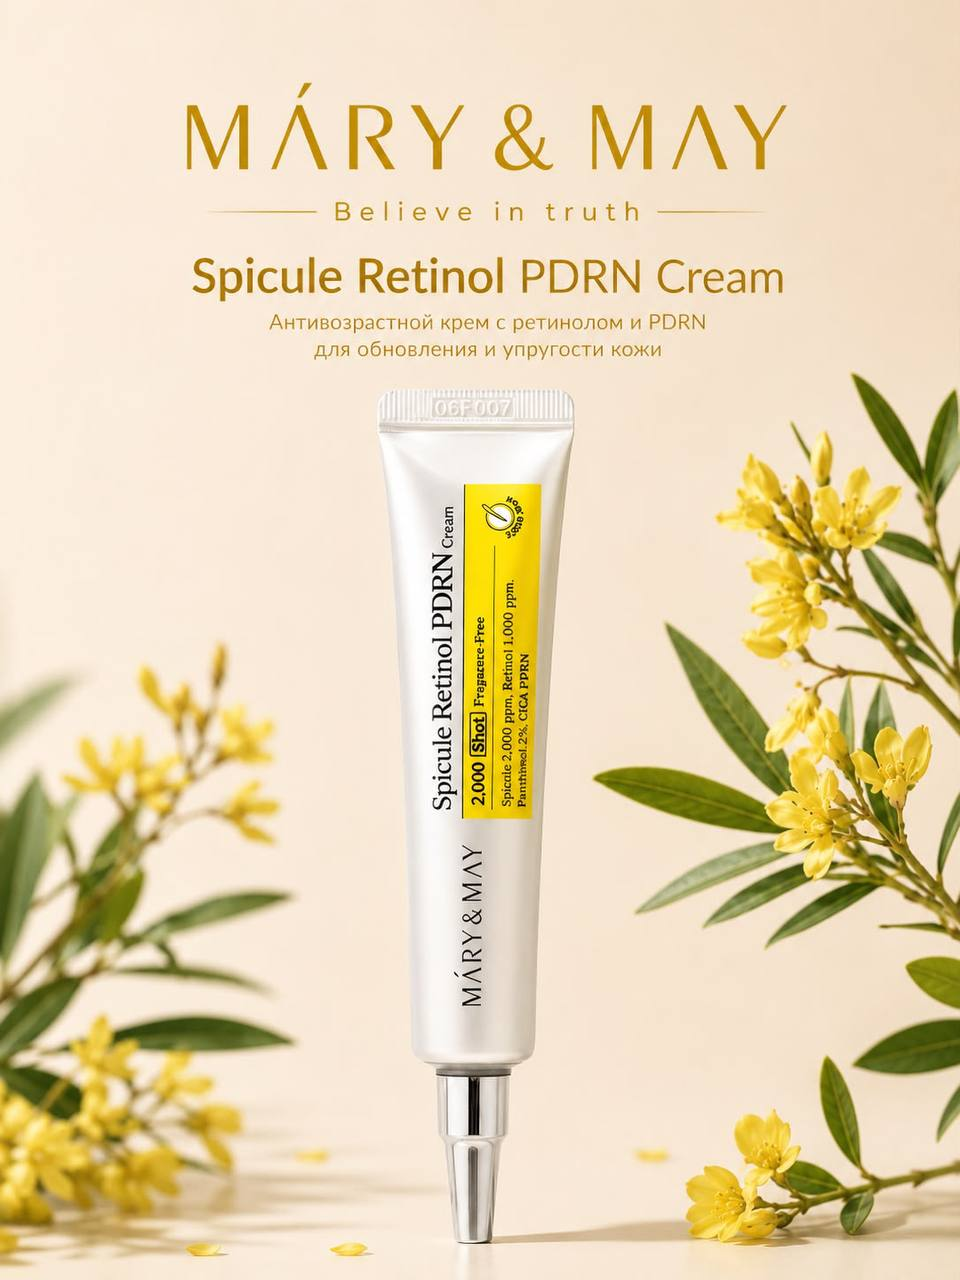
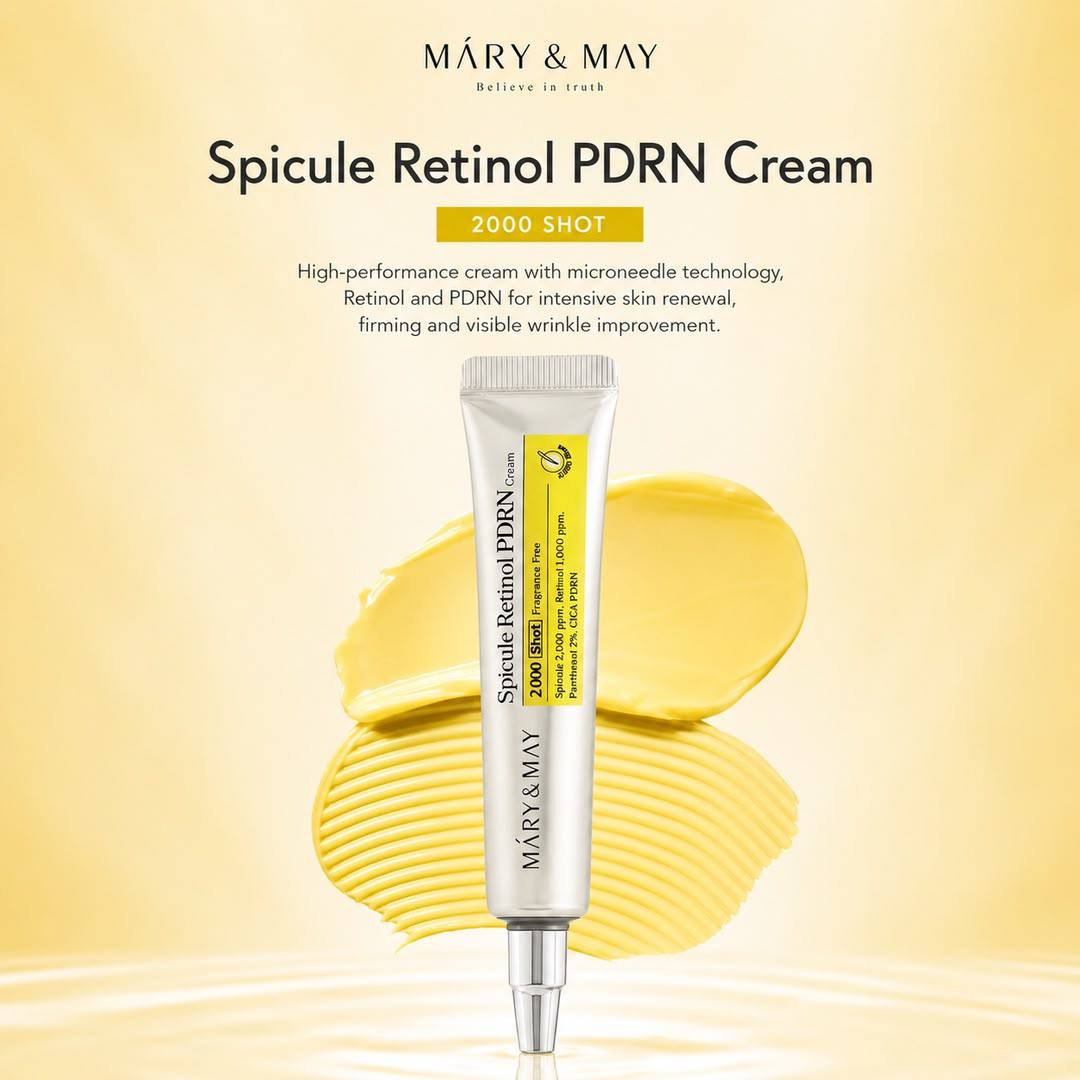
Update Mary & May Spicule Retinol PDRN Cream text (UA/EN/RU) and image

diff --git a/src/data/products.js b/src/data/products.js
@@ -1719,21 +1719,51 @@ export const maryMayProducts = [
     brand: 'MÁRY & MAY',
     line: 'SPICULE RETINOL PDRN',
     nameEn: 'SPICULE RETINOL PDRN CREAM 2000 SHOT',
-    nameRu: 'КРЕМ СО СПИКУЛАМИ, РЕТИНОЛОМ И PDRN',
-    subtitle: 'Крем с 2 000 ppm спикул, ретинолом и PDRN для обновления и упругости кожи',
+    nameUa: 'КРЕМ ІЗ МІКРОСПІКУЛАМИ, РЕТИНОЛОМ ТА PDRN 2000 SHOT',
+    nameRu: 'КРЕМ С МИКРОСПИКУЛАМИ, РЕТИНОЛОМ И PDRN 2000 SHOT',
+    subtitleEn: 'Anti-aging cream with Spicule, Retinol and PDRN for intensive skin renewal',
+    subtitleUa: 'Антивіковий крем із мікроспікулами, ретинолом та PDRN для інтенсивного оновлення шкіри',
+    subtitleRu: 'Антивозрастной крем с микроспикулами, ретинолом и PDRN для интенсивного обновления кожи',
     volume: '20 мл',
     price: 2800,
-    image: '/images/123.jpg',
+    image: '/images/mary-may-spicule-retinol-pdrn-cream.jpg',
     accentColor: '#6b5b95',
-    description: 'Крем с 2 000 ppm спикул, ретинолом и PDRN способствует обновлению кожи, повышает упругость, разглаживает морщины и улучшает текстуру.',
-    benefits: [
-      { icon: '🔄', title: 'ИНТЕНСИВНОЕ ОБНОВЛЕНИЕ',       desc: '2 000 ppm микроспикул стимулируют обновление кожи и усиливают действие активных компонентов.' },
-      { icon: '✨', title: 'АНТИВОЗРАСТНОЙ УХОД',          desc: 'Ретинол помогает уменьшить морщины, улучшает текстуру кожи и поддерживает синтез коллагена.' },
-      { icon: '💧', title: 'ВОССТАНОВЛЕНИЕ И УВЛАЖНЕНИЕ',  desc: 'PDRN, пантенол и комплекс CICA поддерживают восстановление кожи, укрепляют защитный барьер и сохраняют увлажнение.' },
-      { icon: '💪', title: 'ГЛАДКАЯ И УПРУГАЯ КОЖА',       desc: 'Кожа становится более ровной, упругой и приобретает естественное сияние.' },
+    descriptionEn: 'An innovative anti-aging cream that combines microspicule technology (Spicule), Retinol and PDRN for intensive skin renewal. Helps boost firmness, smooth wrinkles, improve texture and give the face a healthy glow.',
+    descriptionUa: 'Інноваційний антивіковий крем, що поєднує технологію мікроспікули (Spicule), ретинол і PDRN для інтенсивного оновлення шкіри. Засіб допомагає підвищити пружність, розгладити зморшки, покращити текстуру та надати обличчю здорового сяйва.',
+    descriptionRu: 'Инновационный антивозрастной крем, сочетающий технологию микроспикул (Spicule), ретинол и PDRN для интенсивного обновления кожи. Средство помогает повысить упругость, разгладить морщины, улучшить текстуру и придать лицу здоровое сияние.',
+    benefitsEn: [
+      { icon: '🔄', title: 'STIMULATES CELL RENEWAL', desc: 'Stimulates natural skin cell renewal.' },
+      { icon: '🎯', title: 'REDUCES WRINKLES', desc: 'Reduces the appearance of wrinkles and fine lines.' },
+      { icon: '💪', title: 'BOOSTS FIRMNESS', desc: 'Boosts firmness and elasticity.' },
+      { icon: '✨', title: 'EVENS TEXTURE & TONE', desc: 'Evens out skin texture and tone.' },
+      { icon: '🌟', title: 'MINIMIZES PORES', desc: 'Helps minimize pores and smooth the skin.' },
+      { icon: '🛡', title: 'REPAIRS BARRIER', desc: 'Supports recovery of the damaged skin barrier.' },
     ],
-    ingredients: ['Spicule 2 000 ppm', 'Ретинол 1 000 ppm', 'PDRN', 'Пантенол 2%', 'Комплекс CICA'],
-    skinTypes: ['Кожа с возрастными изменениями', 'Тусклая и неровная кожа', 'Кожа с потерей упругости', 'Для вечернего ухода'],
+    benefitsUa: [
+      { icon: '🔄', title: 'СТИМУЛЮЄ ОНОВЛЕННЯ КЛІТИН', desc: 'Стимулює природне оновлення клітин шкіри.' },
+      { icon: '🎯', title: 'ЗМЕНШУЄ ЗМОРШКИ', desc: 'Зменшує видимість зморшок і дрібних ліній.' },
+      { icon: '💪', title: 'ПІДВИЩУЄ ПРУЖНІСТЬ', desc: 'Підвищує пружність та еластичність.' },
+      { icon: '✨', title: 'ВИРІВНЮЄ ТЕКСТУРУ ТА ТОН', desc: 'Вирівнює текстуру та тон шкіри.' },
+      { icon: '🌟', title: 'ЗВУЖУЄ ПОРИ', desc: 'Допомагає звузити пори та зробити шкіру більш гладенькою.' },
+      { icon: '🛡', title: 'ВІДНОВЛЮЄ БАР\'ЄР', desc: 'Сприяє відновленню пошкодженого шкірного бар\'єра.' },
+    ],
+    benefitsRu: [
+      { icon: '🔄', title: 'СТИМУЛИРУЕТ ОБНОВЛЕНИЕ КЛЕТОК', desc: 'Стимулирует естественное обновление клеток кожи.' },
+      { icon: '🎯', title: 'УМЕНЬШАЕТ МОРЩИНЫ', desc: 'Уменьшает видимость морщин и мелких линий.' },
+      { icon: '💪', title: 'ПОВЫШАЕТ УПРУГОСТЬ', desc: 'Повышает упругость и эластичность.' },
+      { icon: '✨', title: 'ВЫРАВНИВАЕТ ТЕКСТУРУ И ТОН', desc: 'Выравнивает текстуру и тон кожи.' },
+      { icon: '🌟', title: 'СУЖАЕТ ПОРЫ', desc: 'Помогает сузить поры и сделать кожу более гладкой.' },
+      { icon: '🛡', title: 'ВОССТАНАВЛИВАЕТ БАРЬЕР', desc: 'Способствует восстановлению поврежденного кожного барьера.' },
+    ],
+    ingredientsEn: ['Spicule (2000 Shot) – microspicules that improve penetration of active ingredients into the skin', 'Retinol – stimulates collagen production, reduces wrinkles and improves skin texture', 'PDRN – promotes regeneration, soothes and restores the skin', 'CICA (Centella Asiatica) – reduces irritation and supports the skin barrier'],
+    ingredientsUa: ['Spicule (2000 Shot) – мікроспікули, які покращують проникнення активних компонентів у шкіру', 'Ретинол – стимулює вироблення колагену, зменшує зморшки та покращує рельєф шкіри', 'PDRN – сприяє регенерації, заспокоює та відновлює шкіру', 'CICA (центела азіатська) – зменшує подразнення та підтримує захисний бар\'єр'],
+    ingredientsRu: ['Spicule (2000 Shot) – микроспикулы, которые улучшают проникновение активных компонентов в кожу', 'Ретинол – стимулирует выработку коллагена, уменьшает морщины и улучшает рельеф кожи', 'PDRN – способствует регенерации, успокаивает и восстанавливает кожу', 'CICA (центелла азиатская) – уменьшает раздражение и поддерживает защитный барьер'],
+    skinTypesEn: ['For skin with first or pronounced signs of aging', 'For loss of firmness and elasticity', 'For uneven skin texture and enlarged pores', 'For dull skin that needs renewal'],
+    skinTypesUa: ['Для шкіри з першими або вираженими ознаками старіння', 'Для втрати пружності та еластичності', 'Для нерівної текстури шкіри та розширених пор', 'Для тьмяної шкіри, що потребує оновлення'],
+    skinTypesRu: ['Для кожи с первыми или выраженными признаками старения', 'Для потери упругости и эластичности', 'Для неровной текстуры кожи и расширенных пор', 'Для тусклой кожи, нуждающейся в обновлении'],
+    usageEn: 'Apply a small amount of cream in the evening to cleansed skin after serum. If you are just starting with retinol, use 2–3 times a week, gradually increasing frequency. During the day, always use SPF 50+ sunscreen.',
+    usageUa: 'Наносьте невелику кількість крему ввечері на очищену шкіру після сироватки. Якщо ви тільки починаєте використовувати ретинол, застосовуйте 2–3 рази на тиждень, поступово збільшуючи частоту. Вдень обов\'язково використовуйте сонцезахисний крем SPF 50+.',
+    usageRu: 'Наносите небольшое количество крема вечером на очищенную кожу после сыворотки. Если вы только начинаете использовать ретинол, применяйте 2–3 раза в неделю, постепенно увеличивая частоту. Днем обязательно используйте солнцезащитный крем SPF 50+.',
   },
   {
     id: 'mary-may-rice-glutathione-cleansing-oil',
